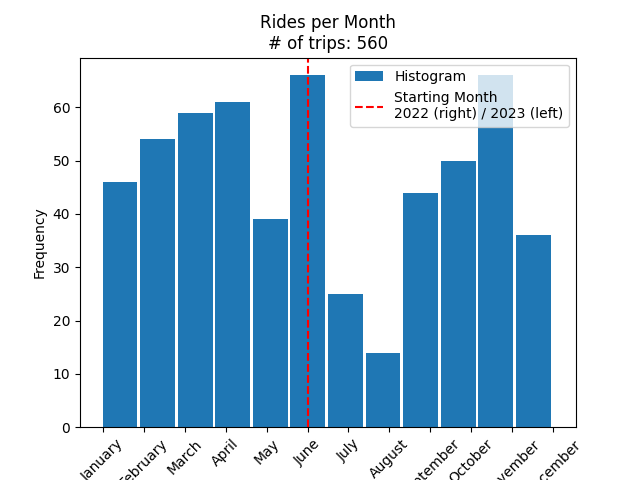
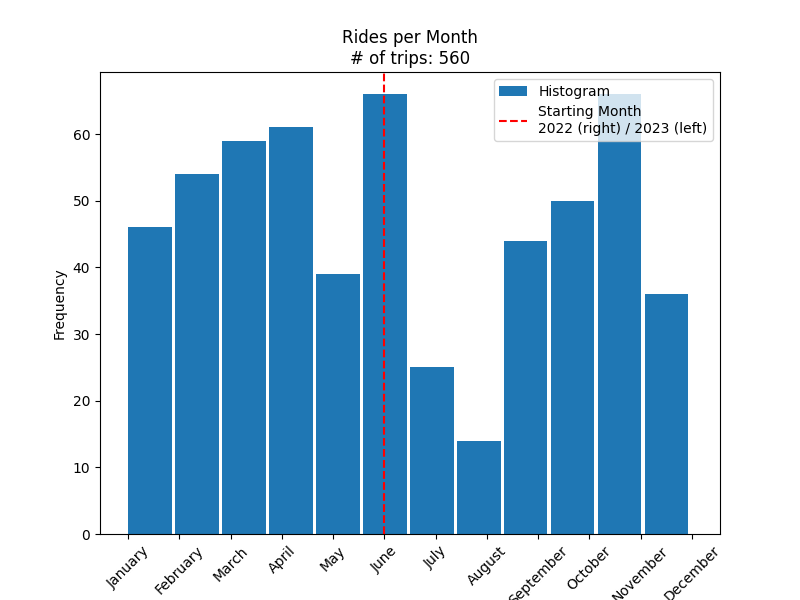
Planned features are fully complete. Looking at the heatmap however shows that data may not be lining up correctly

diff --git a/Outputs/combined_heatmap_map.html b/Outputs/combined_heatmap_map.html
@@ -25,7 +25,7 @@
             <meta name="viewport" content="width=device-width,
                 initial-scale=1.0, maximum-scale=1.0, user-scalable=no" />
             <style>
-                #map_3d1bbc51c7e235cac90454cf3f78769d {
+                #map_fb3a0c0f109c157dedca00d0e194b6b5 {
                     position: relative;
                     width: 100.0%;
                     height: 100.0%;
@@ -40,16 +40,16 @@
 <body>
     
     
-            <div class="folium-map" id="map_3d1bbc51c7e235cac90454cf3f78769d" ></div>
+            <div class="folium-map" id="map_fb3a0c0f109c157dedca00d0e194b6b5" ></div>
         
 </body>
 <script>
     
     
-            var map_3d1bbc51c7e235cac90454cf3f78769d = L.map(
-                "map_3d1bbc51c7e235cac90454cf3f78769d",
+            var map_fb3a0c0f109c157dedca00d0e194b6b5 = L.map(
+                "map_fb3a0c0f109c157dedca00d0e194b6b5",
                 {
-                    center: [43.66432575, -79.40281505],
+                    center: [43.653339189811796, -79.36496897399171],
                     crs: L.CRS.EPSG3857,
                     zoom: 12,
                     zoomControl: true,
@@ -61,16 +61,16 @@
 
         
     
-            var tile_layer_cdaa2bb0ab175607ece81b8b59794a0c = L.tileLayer(
+            var tile_layer_54c983141e580d4cc1b5f8ba8b19c42b = L.tileLayer(
                 "https://{s}.tile.openstreetmap.org/{z}/{x}/{y}.png",
                 {"attribution": "Data by \u0026copy; \u003ca target=\"_blank\" href=\"http://openstreetmap.org\"\u003eOpenStreetMap\u003c/a\u003e, under \u003ca target=\"_blank\" href=\"http://www.openstreetmap.org/copyright\"\u003eODbL\u003c/a\u003e.", "detectRetina": false, "maxNativeZoom": 18, "maxZoom": 18, "minZoom": 0, "noWrap": false, "opacity": 1, "subdomains": "abc", "tms": false}
-            ).addTo(map_3d1bbc51c7e235cac90454cf3f78769d);
+            ).addTo(map_fb3a0c0f109c157dedca00d0e194b6b5);
         
     
-            var heat_map_ae29b899a9b309917d9a671d0f4c4b01 = L.heatLayer(
-                [[43.66432575, -79.40281505, 35], [43.66340035, -79.40217507486187, 1], [43.6496399, -79.3936198, 1], [43.6548199, -79.3882736, 1], [43.63739613451603, -79.40612171600311, 18], [43.639157, -79.3996475, 4], [43.667122750000004, -79.3995476, 3], [43.63700985, -79.3437950730717, 2], [43.63266385, -79.3242128314069, 2], [43.66633047663169, -79.30140222538206, 1], [43.67671389584629, -79.35643003310071, 2], [43.6466792, -79.3827709, 4], [43.65111315, -79.39736715412994, 4], [43.6444862, -79.39967139999999, 1], [43.63558375535192, -79.4035811953714, 3], [43.638155708522774, -79.3975186737966, 4], [43.655548, -79.3835122, 3], [43.65532958729307, -79.39185752239844, 2], [43.6365828, -79.4001581, 2], [43.6699553, -79.2976701, 1], [43.65013976200553, -79.38611012416523, 1], [43.6572018, -79.3743738, 1], [43.6552868, -79.3805856, 1], [44.5808971, -79.8723842, 1]],
+            var heat_map_b7bea53586974027c22b7d22a11fb946 = L.heatLayer(
+                [[43.653339189811796, -79.36496897399171, 21], [43.6572018, -79.3743738, 46], [43.6541862, -79.3652666, 20], [43.6466792, -79.3827709, 43], [43.6620697, -79.3668149, 10], [43.6505369, -79.377921, 296], [43.669115, -79.3793807, 2], [43.65690292756406, -79.37854144306614, 2], [43.6628854, -79.3835168, 2], [43.66611012212478, -79.40667964746912, 3], [43.6390011, -79.4008379, 11], [43.6641536, -79.3678238, 4], [43.648991509352406, -79.37863025118989, 5], [43.65240097833613, -79.36738658196664, 9], [51.5283706, -0.1157698, 3], [43.64516208005284, -79.36546389057112, 2], [43.63266385, -79.3242128314069, 8], [43.66874924814692, -79.29138409914165, 2], [43.6551426, -79.3659375, 15], [34.7529385, -79.489493, 6], [43.636393749999996, -79.41986097422762, 2], [43.6518605, -79.3659319, 16], [43.63739613451603, -79.40612171600311, 117], [43.6348661579098, -79.40907311509858, 1], [43.66432575, -79.40281505, 129], [43.65013976200553, -79.38611012416523, 7], [43.65819629206575, -79.37237783154258, 1], [43.644871753471605, -79.40304417522952, 2], [43.6394636, -79.383704, 1], [43.650449871107995, -79.38457274639377, 2], [43.6658944, -79.4010004, 3], [54.5833187, -0.9720134, 21], [43.6499931, -79.3912123, 3], [43.64099114188913, -79.38776886173602, 3], [43.639157, -79.3996475, 13], [43.6365828, -79.4001581, 18], [34.0560576, -118.23625350485408, 3], [43.6626555, -79.3766333, 4], [43.64854585487397, -79.38090593290008, 16], [43.6501395, -79.3725329, 7], [43.655548, -79.3835122, 8], [43.645224830874064, -79.38319791722124, 4], [43.6552868, -79.3805856, 15], [43.64873517436065, -79.37961624630012, 4], [43.6414535, -79.4145602, 4], [43.66340035, -79.40217507486187, 21], [43.667122750000004, -79.3995476, 8], [43.6623765, -79.3817285, 4], [43.6692297, -79.3876861, 1], [43.64118243343749, -79.3768608743376, 4], [43.6453549, -79.4125613, 1], [43.661366, -79.378982, 2], [43.6637002, -79.3870773, 1], [43.64902635, -79.3954413, 1], [-45.8605135, 170.5112471, 1], [43.6527944, -79.3779172, 4], [43.6520037, -79.377527, 13], [43.251678299999995, -79.8514515108541, 15], [43.6444862, -79.39967139999999, 5], [43.6658944, -79.4010004, 4], [43.6526421, -79.374142, 2], [43.90674, -78.8164141, 1], [43.64161246574678, -79.3754182841772, 1], [43.64172871936933, -79.37709286336468, 4], [43.66613335, -79.37366146529753, 1], [43.66045454260344, -79.38550593841289, 2], [43.65493557358157, -79.39869213994943, 1], [43.638155708522774, -79.3975186737966, 6], [44.5808971, -79.8723842, 3], [43.65611690458023, -79.38161080753405, 1], [43.6501014, -79.3964539, 3], [43.64996315, -79.37399005, 5], [43.641767, -79.396077, 3], [43.6576943, -79.39551007539433, 2], [43.6472034, -79.3799642, 7], [43.6642354, -79.3982272, 2], [43.660438420267894, -79.39693272085542, 3], [43.66208615, -79.397858, 3], [43.66009523286462, -79.39868570406395, 5], [43.00477145, -81.22050520796864, 4], [43.6496399, -79.3936198, 2], [43.6548199, -79.3882736, 3], [43.63700985, -79.3437950730717, 2], [43.666616252698816, -79.30059532683305, 1], [43.67671389584629, -79.35643003310071, 2], [43.65111315, -79.39736715412994, 2], [43.63558375535192, -79.4035811953714, 4], [43.6455956, -79.39412436897669, 2], [43.66583835, -79.40501209221284, 2], [43.639874571108564, -79.39563486173606, 2], [53.7877454, -1.7514365, 2], [43.64640455, -79.39898661929963, 4], [43.66745738887322, -79.32940389141045, 1], [43.655252, -79.4188531, 1], [43.5980328, -79.5167264, 2], [43.64140372780608, -79.39319906173591, 1], [43.6379645, -79.3874561, 1], [43.6465302, -79.39764436661751, 1], [43.63916584218743, -79.41141587522984, 1], [43.65748307629533, -79.3810135942689, 3], [43.6703553, -79.3869414, 1], [43.6559995, -79.3705289, 1], [43.65646866092935, -79.38791808040006, 2], [43.65393453375615, -79.3983147057624, 1], [43.6546438, -79.3697278, 1], [43.6489719, -79.385741, 5], [43.65267522851995, -79.37409513697031, 1], [-39.6405566, 176.8526142, 1], [47.6077404, -122.3359401, 2], [43.64163506354045, -79.3809951194067, 1], [43.6465631, -79.4067831, 2], [43.65532958729307, -79.39185752239844, 3], [43.6699553, -79.2976701, 1], [44.8303203, -87.399019, 1]],
                 {"blur": 15, "maxZoom": 18, "minOpacity": 0.5, "radius": 25}
-            ).addTo(map_3d1bbc51c7e235cac90454cf3f78769d);
+            ).addTo(map_fb3a0c0f109c157dedca00d0e194b6b5);
         
 </script>
 </html>

diff --git a/Outputs/end_heatmap_map.html b/Outputs/end_heatmap_map.html
@@ -25,7 +25,7 @@
             <meta name="viewport" content="width=device-width,
                 initial-scale=1.0, maximum-scale=1.0, user-scalable=no" />
             <style>
-                #map_b7fe59273a1803a513764e54cd714408 {
+                #map_82e9ceabed33051a61551133472e41fa {
                     position: relative;
                     width: 100.0%;
                     height: 100.0%;
@@ -40,16 +40,16 @@
 <body>
     
     
-            <div class="folium-map" id="map_b7fe59273a1803a513764e54cd714408" ></div>
+            <div class="folium-map" id="map_82e9ceabed33051a61551133472e41fa" ></div>
         
 </body>
 <script>
     
     
-            var map_b7fe59273a1803a513764e54cd714408 = L.map(
-                "map_b7fe59273a1803a513764e54cd714408",
+            var map_82e9ceabed33051a61551133472e41fa = L.map(
+                "map_82e9ceabed33051a61551133472e41fa",
                 {
-                    center: [43.63739613451603, -79.40612171600311],
+                    center: [43.6572018, -79.3743738],
                     crs: L.CRS.EPSG3857,
                     zoom: 12,
                     zoomControl: true,
@@ -61,16 +61,16 @@
 
         
     
-            var tile_layer_ca92253bdcb945f2a42b7ea9f2a881fe = L.tileLayer(
+            var tile_layer_a44e6a2d659c35877664bb66359255e7 = L.tileLayer(
                 "https://{s}.tile.openstreetmap.org/{z}/{x}/{y}.png",
                 {"attribution": "Data by \u0026copy; \u003ca target=\"_blank\" href=\"http://openstreetmap.org\"\u003eOpenStreetMap\u003c/a\u003e, under \u003ca target=\"_blank\" href=\"http://www.openstreetmap.org/copyright\"\u003eODbL\u003c/a\u003e.", "detectRetina": false, "maxNativeZoom": 18, "maxZoom": 18, "minZoom": 0, "noWrap": false, "opacity": 1, "subdomains": "abc", "tms": false}
-            ).addTo(map_b7fe59273a1803a513764e54cd714408);
+            ).addTo(map_82e9ceabed33051a61551133472e41fa);
         
     
-            var heat_map_f16c01f579d0ce90ad68c00ef7ab08da = L.heatLayer(
-                [[43.63739613451603, -79.40612171600311, 13], [43.655548, -79.3835122, 3], [43.65532958729307, -79.39185752239844, 2], [43.66432575, -79.40281505, 11], [43.6365828, -79.4001581, 2], [43.639157, -79.3996475, 2], [43.63700985, -79.3437950730717, 1], [43.63266385, -79.3242128314069, 1], [43.6699553, -79.2976701, 1], [43.67671389584629, -79.35643003310071, 1], [43.667122750000004, -79.3995476, 1], [43.6466792, -79.3827709, 2], [43.65111315, -79.39736715412994, 2], [43.65013976200553, -79.38611012416523, 1], [43.63558375535192, -79.4035811953714, 1], [43.638155708522774, -79.3975186737966, 2], [43.6572018, -79.3743738, 1], [43.6552868, -79.3805856, 1], [44.5808971, -79.8723842, 1]],
+            var heat_map_d1b85087f28c23505af0d500c2ff7064 = L.heatLayer(
+                [[43.6572018, -79.3743738, 26], [43.653339189811796, -79.36496897399171, 7], [43.6466792, -79.3827709, 16], [43.6505369, -79.377921, 138], [43.6620697, -79.3668149, 5], [43.66745738887322, -79.32940389141045, 1], [43.64854585487397, -79.38090593290008, 14], [54.5833187, -0.9720134, 9], [43.65690292756406, -79.37854144306614, 1], [43.6628854, -79.3835168, 1], [43.66611012212478, -79.40667964746912, 2], [43.6390011, -79.4008379, 7], [43.63739613451603, -79.40612171600311, 67], [43.6641536, -79.3678238, 2], [43.6541862, -79.3652666, 11], [43.648991509352406, -79.37863025118989, 3], [51.5283706, -0.1157698, 2], [43.64516208005284, -79.36546389057112, 1], [43.63266385, -79.3242128314069, 4], [43.66874924814692, -79.29138409914165, 1], [43.655252, -79.4188531, 1], [43.6518605, -79.3659319, 13], [34.7529385, -79.489493, 2], [43.5980328, -79.5167264, 2], [43.65240097833613, -79.36738658196664, 7], [43.6472034, -79.3799642, 4], [43.64140372780608, -79.39319906173591, 1], [43.66432575, -79.40281505, 48], [43.65013976200553, -79.38611012416523, 6], [43.6379645, -79.3874561, 1], [43.650449871107995, -79.38457274639377, 1], [43.6465302, -79.39764436661751, 1], [43.6499931, -79.3912123, 1], [43.66340035, -79.40217507486187, 8], [43.6365828, -79.4001581, 11], [43.6552868, -79.3805856, 7], [43.639157, -79.3996475, 9], [34.0560576, -118.23625350485408, 2], [43.6626555, -79.3766333, 1], [43.6501395, -79.3725329, 4], [43.63558375535192, -79.4035811953714, 2], [43.6520037, -79.377527, 12], [43.63916584218743, -79.41141587522984, 1], [43.6551426, -79.3659375, 11], [43.645224830874064, -79.38319791722124, 1], [43.64873517436065, -79.37961624630012, 3], [43.6414535, -79.4145602, 2], [43.65748307629533, -79.3810135942689, 3], [43.661366, -79.378982, 1], [43.6548199, -79.3882736, 1], [43.6527944, -79.3779172, 1], [43.6703553, -79.3869414, 1], [43.64118243343749, -79.3768608743376, 2], [43.6559995, -79.3705289, 1], [43.66208615, -79.397858, 2], [43.6444862, -79.39967139999999, 1], [43.6658944, -79.4010004, 2], [43.65646866092935, -79.38791808040006, 2], [43.6623765, -79.3817285, 1], [43.65393453375615, -79.3983147057624, 1], [43.6526421, -79.374142, 1], [43.6546438, -79.3697278, 1], [43.6489719, -79.385741, 5], [43.65267522851995, -79.37409513697031, 1], [-39.6405566, 176.8526142, 1], [43.251678299999995, -79.8514515108541, 5], [43.64996315, -79.37399005, 3], [43.64172871936933, -79.37709286336468, 1], [43.66045454260344, -79.38550593841289, 1], [43.6501014, -79.3964539, 2], [43.638155708522774, -79.3975186737966, 3], [47.6077404, -122.3359401, 2], [43.641767, -79.396077, 1], [43.64163506354045, -79.3809951194067, 1], [43.6576943, -79.39551007539433, 1], [43.6642354, -79.3982272, 1], [43.66009523286462, -79.39868570406395, 3], [43.660438420267894, -79.39693272085542, 1], [43.00477145, -81.22050520796864, 2], [43.6465631, -79.4067831, 2], [43.655548, -79.3835122, 6], [43.65532958729307, -79.39185752239844, 3], [43.63700985, -79.3437950730717, 1], [43.6699553, -79.2976701, 1], [43.67671389584629, -79.35643003310071, 1], [43.667122750000004, -79.3995476, 1], [43.65111315, -79.39736715412994, 1], [44.5808971, -79.8723842, 1], [43.6455956, -79.39412436897669, 1], [44.8303203, -87.399019, 1], [43.66583835, -79.40501209221284, 1], [43.639874571108564, -79.39563486173606, 1], [43.6496399, -79.3936198, 1], [53.7877454, -1.7514365, 1], [43.64640455, -79.39898661929963, 2]],
                 {"blur": 15, "maxZoom": 18, "minOpacity": 0.5, "radius": 25}
-            ).addTo(map_b7fe59273a1803a513764e54cd714408);
+            ).addTo(map_82e9ceabed33051a61551133472e41fa);
         
 </script>
 </html>

diff --git a/Outputs/start_heatmap_map.html b/Outputs/start_heatmap_map.html
@@ -25,7 +25,7 @@
             <meta name="viewport" content="width=device-width,
                 initial-scale=1.0, maximum-scale=1.0, user-scalable=no" />
             <style>
-                #map_3f33ec410db7f1b581edfd8f374609ad {
+                #map_fb9a90fc5b70845d2bcd7ddc498016d6 {
                     position: relative;
                     width: 100.0%;
                     height: 100.0%;
@@ -40,16 +40,16 @@
 <body>
     
     
-            <div class="folium-map" id="map_3f33ec410db7f1b581edfd8f374609ad" ></div>
+            <div class="folium-map" id="map_fb9a90fc5b70845d2bcd7ddc498016d6" ></div>
         
 </body>
 <script>
     
     
-            var map_3f33ec410db7f1b581edfd8f374609ad = L.map(
-                "map_3f33ec410db7f1b581edfd8f374609ad",
+            var map_fb9a90fc5b70845d2bcd7ddc498016d6 = L.map(
+                "map_fb9a90fc5b70845d2bcd7ddc498016d6",
                 {
-                    center: [43.66432575, -79.40281505],
+                    center: [43.653339189811796, -79.36496897399171],
                     crs: L.CRS.EPSG3857,
                     zoom: 12,
                     zoomControl: true,
@@ -61,16 +61,16 @@
 
         
     
-            var tile_layer_d0086cc1d40717bb635cf3bb51c768af = L.tileLayer(
+            var tile_layer_8900fd1bb5a391a2b937cc29569319ce = L.tileLayer(
                 "https://{s}.tile.openstreetmap.org/{z}/{x}/{y}.png",
                 {"attribution": "Data by \u0026copy; \u003ca target=\"_blank\" href=\"http://openstreetmap.org\"\u003eOpenStreetMap\u003c/a\u003e, under \u003ca target=\"_blank\" href=\"http://www.openstreetmap.org/copyright\"\u003eODbL\u003c/a\u003e.", "detectRetina": false, "maxNativeZoom": 18, "maxZoom": 18, "minZoom": 0, "noWrap": false, "opacity": 1, "subdomains": "abc", "tms": false}
-            ).addTo(map_3f33ec410db7f1b581edfd8f374609ad);
+            ).addTo(map_fb9a90fc5b70845d2bcd7ddc498016d6);
         
     
-            var heat_map_2ba6a3a54e6b56673c4b5877bae3c6bc = L.heatLayer(
-                [[43.66432575, -79.40281505, 24], [43.66340035, -79.40217507486187, 1], [43.6496399, -79.3936198, 1], [43.6548199, -79.3882736, 1], [43.63739613451603, -79.40612171600311, 5], [43.639157, -79.3996475, 2], [43.667122750000004, -79.3995476, 2], [43.63700985, -79.3437950730717, 1], [43.63266385, -79.3242128314069, 1], [43.66633047663169, -79.30140222538206, 1], [43.67671389584629, -79.35643003310071, 1], [43.6466792, -79.3827709, 2], [43.65111315, -79.39736715412994, 2], [43.6444862, -79.39967139999999, 1], [43.63558375535192, -79.4035811953714, 2], [43.638155708522774, -79.3975186737966, 2]],
+            var heat_map_40b4004c137721836c39f00aa965aad1 = L.heatLayer(
+                [[43.653339189811796, -79.36496897399171, 14], [43.6572018, -79.3743738, 20], [43.6541862, -79.3652666, 9], [43.6466792, -79.3827709, 27], [43.6620697, -79.3668149, 5], [43.6505369, -79.377921, 158], [43.669115, -79.3793807, 2], [43.65690292756406, -79.37854144306614, 1], [43.6628854, -79.3835168, 1], [43.66611012212478, -79.40667964746912, 1], [43.6390011, -79.4008379, 4], [43.6641536, -79.3678238, 2], [43.648991509352406, -79.37863025118989, 2], [43.65240097833613, -79.36738658196664, 2], [51.5283706, -0.1157698, 1], [43.64516208005284, -79.36546389057112, 1], [43.63266385, -79.3242128314069, 4], [43.66874924814692, -79.29138409914165, 1], [43.6551426, -79.3659375, 4], [34.7529385, -79.489493, 4], [43.636393749999996, -79.41986097422762, 2], [43.6518605, -79.3659319, 3], [43.63739613451603, -79.40612171600311, 50], [43.6348661579098, -79.40907311509858, 1], [43.66432575, -79.40281505, 81], [43.65013976200553, -79.38611012416523, 1], [43.65819629206575, -79.37237783154258, 1], [43.644871753471605, -79.40304417522952, 2], [43.6394636, -79.383704, 1], [43.650449871107995, -79.38457274639377, 1], [43.6658944, -79.4010004, 3], [54.5833187, -0.9720134, 12], [43.6499931, -79.3912123, 2], [43.64099114188913, -79.38776886173602, 3], [43.639157, -79.3996475, 4], [43.6365828, -79.4001581, 7], [34.0560576, -118.23625350485408, 1], [43.6626555, -79.3766333, 3], [43.64854585487397, -79.38090593290008, 2], [43.6501395, -79.3725329, 3], [43.655548, -79.3835122, 2], [43.645224830874064, -79.38319791722124, 3], [43.6552868, -79.3805856, 8], [43.64873517436065, -79.37961624630012, 1], [43.6414535, -79.4145602, 2], [43.66340035, -79.40217507486187, 13], [43.667122750000004, -79.3995476, 7], [43.6623765, -79.3817285, 3], [43.6692297, -79.3876861, 1], [43.64118243343749, -79.3768608743376, 2], [43.6453549, -79.4125613, 1], [43.661366, -79.378982, 1], [43.6637002, -79.3870773, 1], [43.64902635, -79.3954413, 1], [-45.8605135, 170.5112471, 1], [43.6527944, -79.3779172, 3], [43.6520037, -79.377527, 1], [43.251678299999995, -79.8514515108541, 10], [43.6444862, -79.39967139999999, 4], [43.6658944, -79.4010004, 2], [43.6526421, -79.374142, 1], [43.90674, -78.8164141, 1], [43.64161246574678, -79.3754182841772, 1], [43.64172871936933, -79.37709286336468, 3], [43.66613335, -79.37366146529753, 1], [43.66045454260344, -79.38550593841289, 1], [43.65493557358157, -79.39869213994943, 1], [43.638155708522774, -79.3975186737966, 3], [44.5808971, -79.8723842, 2], [43.65611690458023, -79.38161080753405, 1], [43.6501014, -79.3964539, 1], [43.64996315, -79.37399005, 2], [43.641767, -79.396077, 2], [43.6576943, -79.39551007539433, 1], [43.6472034, -79.3799642, 3], [43.6642354, -79.3982272, 1], [43.660438420267894, -79.39693272085542, 2], [43.66208615, -79.397858, 1], [43.66009523286462, -79.39868570406395, 2], [43.00477145, -81.22050520796864, 2], [43.6496399, -79.3936198, 1], [43.6548199, -79.3882736, 2], [43.63700985, -79.3437950730717, 1], [43.666616252698816, -79.30059532683305, 1], [43.67671389584629, -79.35643003310071, 1], [43.65111315, -79.39736715412994, 1], [43.63558375535192, -79.4035811953714, 2], [43.6455956, -79.39412436897669, 1], [43.66583835, -79.40501209221284, 1], [43.639874571108564, -79.39563486173606, 1], [53.7877454, -1.7514365, 1], [43.64640455, -79.39898661929963, 2]],
                 {"blur": 15, "maxZoom": 18, "minOpacity": 0.5, "radius": 25}
-            ).addTo(map_3f33ec410db7f1b581edfd8f374609ad);
+            ).addTo(map_fb9a90fc5b70845d2bcd7ddc498016d6);
         
 </script>
 </html>

diff --git a/Location_to_Coordinates.py b/Location_to_Coordinates.py
@@ -19,7 +19,30 @@ def location_to_coordinates(locations, visit_counts):
         "Hubbard Blvd. / Glen Manor Dr.": "43.66874924814692, -79.29138409914165",
         "Strachan Ave / Princes' Blvd": "43.6348661579098, -79.40907311509858",
         "Dundas St E / Pembroke St": "43.65819629206575, -79.37237783154258",
-        "Bathurst St / Adelaide St W": "43.644871753471605, -79.40304417522952"
+        "Bathurst St / Adelaide St W": "43.644871753471605, -79.40304417522952",
+        "Bremner Blvd / Rees St": "43.64099114188913, -79.38776886173602",
+        "King St W / Bay St (West Side)": "43.64854585487397, -79.38090593290008",
+        "Front St W / University Ave (2)": "43.645224830874064, -79.38319791722124",
+        "King St W / Bay St (East Side)": "43.64873517436065, -79.37961624630012",
+        "Bay St / Queens Quay W (Ferry Terminal)": "43.64118243343749, -79.3768608743376",
+        "Bay St / Bloor St W (East Side)": "43.64161246574678, -79.3754182841772",
+        "Front St W / Bay St (North Side)": "43.64172871936933, -79.37709286336468",
+        "Bay St / College St (East Side)": "43.66045454260344, -79.38550593841289",
+        "Baldwin St / Spadina Ave": "43.65493557358157, -79.39869213994943",
+        "Toronto Eaton Centre (Yonge St)": "43.65611690458023, -79.38161080753405",
+        "Ursula Franklin St / St. George St": "43.660438420267894, -79.39693272085542",
+        "Ursula Franklin St / Huron St": "43.66009523286462, -79.39868570406395",
+        "Kewbeach Ave / Kenilworth Ave": "43.666616252698816, -79.30059532683305",
+        "Fort York  Blvd / Capreol Ct": "43.639874571108564, -79.39563486173606",
+        "Alton Ave / Dundas St E (Greenwood Park)": "43.66745738887322, -79.32940389141045",
+        "Spadina Ave / Blue Jays Way": "43.64140372780608, -79.39319906173591",
+        "East Liberty St / Western Battery Rd": "43.63916584218743, -79.41141587522984",
+        "Gould St / Yonge St (TMU)": "43.65748307629533, -79.3810135942689",
+        "Elm St/ University Ave (East Side)": "43.65646866092935, -79.38791808040006",
+        "D'Arcy St / Spadina Ave": "43.65393453375615, -79.3983147057624",
+        "Richmond St E / Jarvis St Green P": "43.65267522851995, -79.37409513697031",
+        "York St / Lake Shore Blvd W": "43.64163506354045, -79.3809951194067",
+        "Richmond St W / York St": "43.650449871107995, -79.38457274639377"
     }
 
     # Obtain coordinates for each address using geocoding
@@ -36,7 +59,10 @@ def location_to_coordinates(locations, visit_counts):
             location = location[:-len(' SMART')]
 
         # Find coordinates
-        coordinate = geolocator.geocode(location)
+        try:
+            coordinate = geolocator.geocode(location)
+        except:
+            coordinate = None
         # print('the coordinate for '+str(location)+' are '+str(coordinate))
 
         # Try Again (Flipping streets)
@@ -68,8 +94,6 @@ def location_to_coordinates(locations, visit_counts):
                 coordinate_latitude = float(coordinate.split(',')[0])
                 coordinate_longitude = float(coordinate.split(',')[1])
                 coordinates.append((coordinate_latitude, coordinate_longitude,visit_count))
-
-        print(location)
 
     print(str(len(coordinates))+" out of "+str(len(locations))+" coordinates found")
     return(coordinates)

diff --git a/Present_Data.py b/Present_Data.py
@@ -30,6 +30,7 @@ max = np.max(numeric_durations)
 num_points = 1000
 data_points = np.random.normal(mean, std_dev, num_points)
 # Plot the histogram
+plt.figure(figsize=(8, 6))
 plt.hist(numeric_durations, bins=24*3, density=True, alpha=0.6, label='Histogram')
 # Overlay the Gaussian curve
 x_values = np.linspace(0, 24*3600, num_points)
@@ -55,11 +56,12 @@ datetime_months = [datetime.strptime(time.strip(), '%m-%d-%Y %H:%M:%S').month fo
 numeric_durations = datetime_months
 
 # Plot the histogram
+plt.figure(figsize=(8, 6))
 plt.hist(numeric_durations, bins=12, label='Histogram',width=0.85)
 months = ['January', 'February', 'March', 'April', 'May', 'June', 'July','August', 'September', 'October', 'November', 'December']
 plt.xticks(np.linspace(1, 12, 12),months,rotation=45)
 
-starting_month = 6
+starting_month = numeric_durations[0]
 plt.axvline(x=starting_month, color='r', linestyle='--', label='Starting Month\n2022 (right) / 2023 (left)')
 
 plt.xlabel('Months')
@@ -82,6 +84,7 @@ max = np.max(numeric_durations)
 num_points = 1000
 data_points = np.random.normal(mean, std_dev, num_points)
 # Plot the histogram
+plt.figure(figsize=(8, 6))
 plt.hist(numeric_durations, bins=50*2, density=True, alpha=0.6, label='Histogram')
 # Overlay the Gaussian curve
 x_values = np.linspace(np.min(numeric_durations), np.max(numeric_durations), num_points)
@@ -104,7 +107,6 @@ plt.close()
 # station_name_start ------------------------------------------------------------------------------------------------
 station_counter = Counter(list(map(str.strip, dataset[2])))
 locations = list(station_counter.keys())
-print(locations)
 visit_counts = list(station_counter.values())
 
 # Obtain coordinates for each address using geocoding

diff --git a/Selenium_GetData.py b/Selenium_GetData.py
@@ -35,8 +35,8 @@ time.sleep(2)
 dropdown = Select(driver.find_element(By.ID, 'period'))
 dropdown.select_by_value('custom')
 
-startTime = datetime(2023, 5, 1)
-endTime = datetime(2023, 5, 30)
+startTime = datetime(2022, 6, 5)
+endTime = datetime(2023, 6, 19)
 timeDelta = endTime - startTime
 iterations = timeDelta.days
 queryWindow = 7
